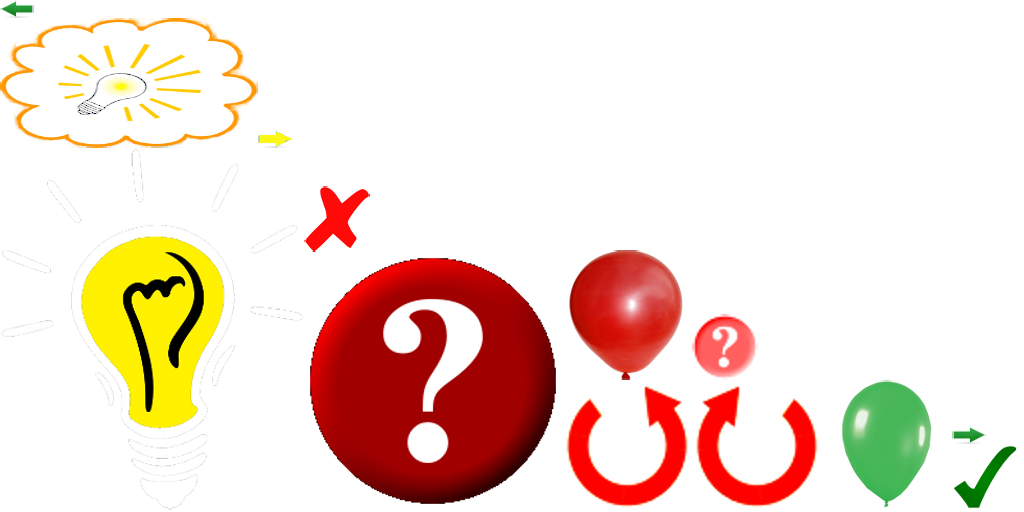
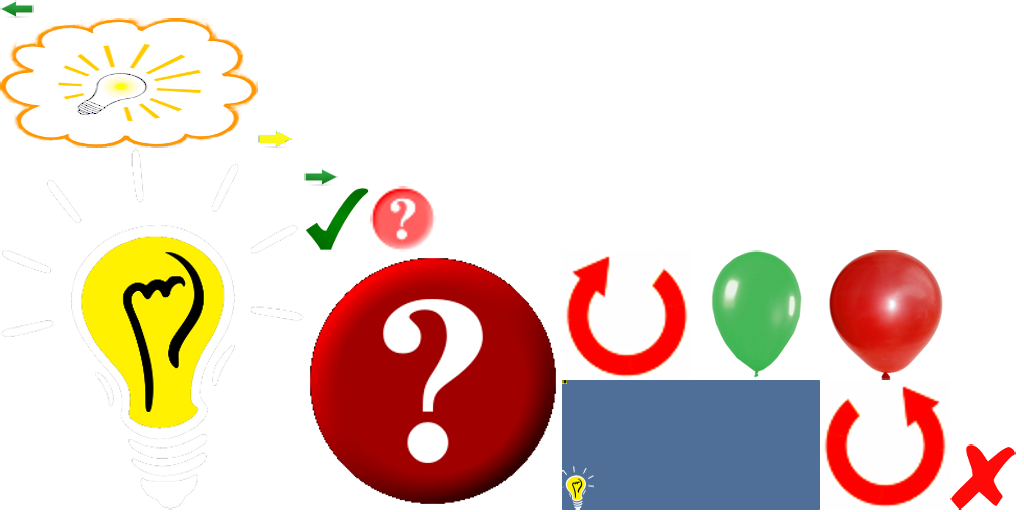
async inventory, atempt to make explanation box better.

Changed region(s): [[0.5312, 0.4688, 1.0, 1.0], [0.2812, 0.3125, 0.4375, 0.5]]

diff --git a/ScienceEngine/src/com/mazalearn/scienceengine/app/dialogs/PurchaseDialog.java b/ScienceEngine/src/com/mazalearn/scienceengine/app/dialogs/PurchaseDialog.java
@@ -18,6 +18,7 @@ import com.mazalearn.scienceengine.ScreenComponent;
 import com.mazalearn.scienceengine.Topic;
 import com.mazalearn.scienceengine.app.screens.LoadingScienceTrain;
 import com.mazalearn.scienceengine.app.screens.TopicHomeScreen;
+import com.mazalearn.scienceengine.app.services.InstallProfile;
 import com.mazalearn.scienceengine.app.services.SoundManager.ScienceEngineSound;
 import com.mazalearn.scienceengine.app.utils.ScreenUtils;
 import com.mazalearn.scienceengine.billing.IBilling;
@@ -29,21 +30,59 @@ import com.mazalearn.scienceengine.billing.SkuDetails;
  */
 public class PurchaseDialog extends Dialog {
   
-  public PurchaseDialog(final Topic topic, Topic level, final IBilling billing, 
+  private Skin skin;
+  private List<Topic> topicList;
+  private ButtonGroup purchasableItems;
+  private ScienceEngine scienceEngine;
+  private Topic topic;
+  private IBilling billing;
+
+  public PurchaseDialog(final Topic topic, Topic level,
       final Stage stage, final Skin skin, final ScienceEngine scienceEngine) {
-    super("", skin);
+    super("", skin, "dialog");
+    
+    this.skin = skin;
+    this.scienceEngine = scienceEngine;
+    this.topic = topic;
 
     // retrieve the default table actor
     Table table = getContentTable();
     table.defaults().spaceBottom(ScreenComponent.getScaledY(30));
     table.columnDefaults(0).padRight(ScreenComponent.getScaledX(20));
+    table.add("Loading...Please wait...");
 
-    // Do an inventory queue here to get prices and description
-    List<Topic> topicList = Arrays.asList(new Topic[] { topic, level});
-    Inventory inventory = ScienceEngine.getPlatformAdapter().queryInventory(topicList);
-    final ButtonGroup buttonGroup = new ButtonGroup();
-    buttonGroup.setMinCheckCount(0);
-    buttonGroup.setMaxCheckCount(1);
+    purchasableItems = new ButtonGroup();
+    purchasableItems.setMinCheckCount(0);
+    purchasableItems.setMaxCheckCount(1);
+
+    // Do an inventory query to get prices and description
+    topicList = Arrays.asList(new Topic[] { topic, level});
+    final InstallProfile installProfile = ScienceEngine.getPreferencesManager().getInstallProfile();
+    billing = new IBilling() {
+      @Override
+      public void purchaseCallback(Topic purchasedTopic) {
+        if (purchasedTopic == null) return;
+        // Allow access after marking in install profile
+        installProfile.addAsAvailableTopic(purchasedTopic);
+        for (Topic child: purchasedTopic.getChildren()) {
+          installProfile.addAsAvailableTopic(child);
+        }
+        installProfile.save();
+        LoadingScienceTrain.setWaitForBackend(false);                  
+      }
+
+      @Override
+      public void inventoryCallback(Inventory inventory) {
+        showItemsForPurchase(inventory);
+      }
+    };
+    ScienceEngine.getPlatformAdapter().queryInventory(topicList, billing);
+    
+  }
+
+  private void showItemsForPurchase(Inventory inventory) {
+    Table table = getContentTable();
+    table.clear();
     for (Topic item: topicList) {
       SkuDetails skuDetails = inventory.getSkuDetails(item.toProductId());
       final TextButton topicCheckbox = ScreenUtils.createCheckBox(skuDetails.getDescription(), 0f, 0f, 300f, 30f, 
@@ -57,10 +96,10 @@ public class PurchaseDialog extends Dialog {
       table.add(topicCheckbox).left().height(ScreenComponent.getScaledY(60)).pad(ScreenComponent.getScaledX(10));
       table.add(skuDetails.getPrice()).pad(ScreenComponent.getScaledX(10));
       topicCheckbox.setName(item.name());
-      buttonGroup.add(topicCheckbox);
+      purchasableItems.add(topicCheckbox);
       table.row();
     }
-    
+    // Add a purchase button
     TextButton purchaseButton = new TextButton("Purchase Selected Topics", skin, "body");
     getButtonTable().add(purchaseButton)
         .width(ScreenComponent.getScaledX(300))
@@ -69,7 +108,7 @@ public class PurchaseDialog extends Dialog {
       @Override
       public void clicked(InputEvent event, float x, float y) {
         ScienceEngine.getSoundManager().play(ScienceEngineSound.CLICK);
-        Button topicButton = buttonGroup.getChecked();
+        Button topicButton = purchasableItems.getChecked();
         if (topicButton != null) {
           // android.test.purchased - item already owned not handled
           // android.test.canceled - BUG: either purchasedata or datasignature is null
@@ -80,8 +119,9 @@ public class PurchaseDialog extends Dialog {
           scienceEngine.setScreen(new LoadingScienceTrain(scienceEngine, topicHomeScreen));                  
           ScienceEngine.getPlatformAdapter().launchPurchaseFlow(purchaseTopic, billing);
         }
-      }
+      } 
     });
 
+    this.show(getStage());
   }
 }

diff --git a/ScienceEngine/src/com/mazalearn/scienceengine/AbstractPlatformAdapter.java b/ScienceEngine/src/com/mazalearn/scienceengine/AbstractPlatformAdapter.java
@@ -96,22 +96,33 @@ public abstract class AbstractPlatformAdapter implements IPlatformAdapter {
   }
 
   @Override
-  public Inventory queryInventory(List<Topic> topicList) {
-    if ((ScienceEngine.DEV_MODE & DevMode.BILLING_DUMMY) != 0) {
-      Inventory inventory = new Inventory();
-      for (Topic topic: topicList) {
-        StringBuffer json = new StringBuffer();
-        json.append("{");
-        json.append("productId:\"" + topic.toProductId() + "\"");
-        json.append(",title:\"" + topic.name() + "\"");
-        json.append(",description:\"" + topic.name() + "\"");
-        json.append(",price:" + (topic.getChildren().length > 0 ? "\"$4.99\"" : "\"0.99\""));
-        json.append("}");
-        SkuDetails skuDetails = SkuDetails.toSkuDetails("inapp", json.toString());
-        inventory.addSkuDetails(skuDetails);
-      }
-      return inventory;
+  public void queryInventory(List<Topic> topicList, final IBilling billing) {
+    if ((ScienceEngine.DEV_MODE & DevMode.BILLING_DUMMY) == 0) {
+      throw new UnsupportedOperationException("Query Inventory not implemented");
     }
-    throw new UnsupportedOperationException("Query Inventory not implemented");
+    final Inventory inventory = new Inventory();
+    for (Topic topic: topicList) {
+      StringBuffer json = new StringBuffer();
+      json.append("{");
+      json.append("productId:\"" + topic.toProductId() + "\"");
+      json.append(",title:\"" + topic.name() + "\"");
+      json.append(",description:\"" + topic.name() + "\"");
+      json.append(",price:" + (topic.getChildren().length > 0 ? "\"$4.99\"" : "\"0.99\""));
+      json.append("}");
+      SkuDetails skuDetails = SkuDetails.toSkuDetails("inapp", json.toString());
+      inventory.addSkuDetails(skuDetails);
+    }
+    // Simulate an asynchronous inventory query
+    new Thread(new Runnable() {
+      @Override
+      public void run() {
+        try {
+          Thread.sleep(1000);
+        } catch (InterruptedException e) {
+          e.printStackTrace();
+        }
+        billing.inventoryCallback(inventory);
+      }
+    }).start();
   }
 }

diff --git a/ScienceEngine/src/com/mazalearn/scienceengine/app/screens/TopicHomeScreen.java b/ScienceEngine/src/com/mazalearn/scienceengine/app/screens/TopicHomeScreen.java
@@ -37,7 +37,6 @@ import com.mazalearn.scienceengine.app.utils.Format;
 import com.mazalearn.scienceengine.app.utils.IPlatformAdapter;
 import com.mazalearn.scienceengine.app.utils.LevelUtil;
 import com.mazalearn.scienceengine.app.utils.ScreenUtils;
-import com.mazalearn.scienceengine.billing.IBilling;
 import com.mazalearn.scienceengine.tutor.Guru;
 import com.mazalearn.scienceengine.tutor.ITutor;
 
@@ -209,19 +208,7 @@ public class TopicHomeScreen extends AbstractScreen {
           @Override
           public void clicked(InputEvent event, float x, float y) {
             if (!installProfile.isAvailableTopic(level)) {
-              new PurchaseDialog(topic, level, new IBilling() {
-                @Override
-                public void purchaseCallback(Topic purchasedTopic) {
-                  if (purchasedTopic == null) return;
-                  // Allow access after marking in install profile
-                  installProfile.addAsAvailableTopic(purchasedTopic);
-                  for (Topic child: purchasedTopic.getChildren()) {
-                    installProfile.addAsAvailableTopic(child);
-                  }
-                  installProfile.save();
-                  LoadingScienceTrain.setWaitForBackend(false);                  
-                }
-              }, getStage(), getSkin(), scienceEngine).show(getStage());
+              new PurchaseDialog(topic, level, getStage(), getSkin(), scienceEngine).show(getStage());
               return;
             }
             new MessageDialog(getSkin(), "To unlock this level, you need the " + topic.name() + " Certificate").show(stage);

diff --git a/ScienceEngine-android/src/com/mazalearn/scienceengine/PlatformAdapterImpl.java b/ScienceEngine-android/src/com/mazalearn/scienceengine/PlatformAdapterImpl.java
@@ -93,18 +93,25 @@ public class PlatformAdapterImpl extends NonWebPlatformAdapter {
   }
   
   @Override
-  public Inventory queryInventory(List<Topic> topicList) {
+  public void queryInventory(List<Topic> topicList, final IBilling billing) {
     Gdx.app.log(ScienceEngine.LOG, "Querying inventory.");
     List<String> productList = new ArrayList<String>();
     for (Topic topic: topicList) {
       productList.add(topic.toProductId());
     }
-    try {
-      return iabHelper.queryInventory(true, productList, Collections.<String> emptyList());
-    } catch (IabException e) {
-      e.printStackTrace();
-      return null;
-    }    
+    
+    iabHelper.queryInventoryAsync(true, productList,
+        new IabHelper.QueryInventoryFinishedListener() {
+          @Override
+          public void onQueryInventoryFinished(IabResult result, Inventory inventory) {
+            if (result.isFailure()) {
+              Gdx.app.error(ScienceEngine.LOG, "Failed to query inventory: " + result);
+              billing.inventoryCallback(null);
+            }
+            Gdx.app.log(ScienceEngine.LOG, "Query inventory was successful.");
+            billing.inventoryCallback(inventory);
+          }
+        });    
   }
   
   // Listener that's called when we finish querying the items and subscriptions we own

diff --git a/ScienceEngine/src/com/mazalearn/scienceengine/tutor/ImageMessageBox.java b/ScienceEngine/src/com/mazalearn/scienceengine/tutor/ImageMessageBox.java
@@ -1,6 +1,5 @@
 package com.mazalearn.scienceengine.tutor;
 
-import com.badlogic.gdx.Gdx;
 import com.badlogic.gdx.graphics.Color;
 import com.badlogic.gdx.graphics.g2d.SpriteBatch;
 import com.badlogic.gdx.scenes.scene2d.Actor;
@@ -76,7 +75,7 @@ public class ImageMessageBox extends TextButton {
         if (newX + w > ScreenComponent.VIEWPORT_WIDTH) newX = ScreenComponent.VIEWPORT_WIDTH - w;
         if (newY < 0) newY = 0;
         if (newY + h > ScreenComponent.VIEWPORT_HEIGHT) newY = ScreenComponent.VIEWPORT_HEIGHT - h;
-        Gdx.app.error(ScienceEngine.LOG, "x y " + getDeltaX() + " " + getDeltaY() + " " + newX + " " + newY);
+        // Gdx.app.error(ScienceEngine.LOG, "ImageMessageBox x y " + getDeltaX() + " " + getDeltaY() + " " + newX + " " + newY);
         setPosition(newX, newY);
       }
     });

diff --git a/ScienceEngine/src/com/mazalearn/scienceengine/app/screens/LoadingScienceTrain.java b/ScienceEngine/src/com/mazalearn/scienceengine/app/screens/LoadingScienceTrain.java
@@ -81,7 +81,7 @@ public class LoadingScienceTrain extends AbstractScreen {
     height = ScreenComponent.VIEWPORT_HEIGHT;
     stage.setViewport(width, height, false);
     startX = 50;
-    endX = WIDTH - 10;
+    endX = ScreenComponent.VIEWPORT_WIDTH - 10;
     startY = ScreenComponent.VIEWPORT_HEIGHT * MathUtils.random(0.2f, 0.8f);
     endY = ScreenComponent.VIEWPORT_HEIGHT * MathUtils.random(0.2f, 0.8f);
     train.setPosition(startX, startY);
@@ -90,7 +90,6 @@ public class LoadingScienceTrain extends AbstractScreen {
     railTracks.setPosition(startX - 100 * MathUtils.cosDeg(angle), 
         startY - 25 - 100 * MathUtils.sinDeg(angle));
     railTracks.setRotation(angle);
-
   }
 
   @Override

diff --git a/ScienceEngine/src/com/mazalearn/scienceengine/app/utils/IPlatformAdapter.java b/ScienceEngine/src/com/mazalearn/scienceengine/app/utils/IPlatformAdapter.java
@@ -12,7 +12,6 @@ import com.mazalearn.scienceengine.Topic;
 import com.mazalearn.scienceengine.app.screens.AbstractScreen;
 import com.mazalearn.scienceengine.app.services.IMessage;
 import com.mazalearn.scienceengine.billing.IBilling;
-import com.mazalearn.scienceengine.billing.Inventory;
 import com.mazalearn.scienceengine.core.controller.IScience2DController;
 
 public interface IPlatformAdapter {
@@ -74,6 +73,6 @@ public interface IPlatformAdapter {
 
   void launchPurchaseFlow(Topic sku, IBilling billing);
 
-  Inventory queryInventory(List<Topic> itemList);
+  void queryInventory(List<Topic> itemList, IBilling billing);
 }
 

diff --git a/ScienceEngine/src/com/mazalearn/scienceengine/tutor/TutorHelper.java b/ScienceEngine/src/com/mazalearn/scienceengine/tutor/TutorHelper.java
@@ -81,11 +81,11 @@ public class TutorHelper extends Group {
     this.addActor(successImage);
     this.addActor(failureImage);
     this.addActor(correctImage);
-    this.addActor(wrongImage);   
+    this.addActor(wrongImage);
     
     hinter = new Hinter(skin);
     this.addActor(hinter);
-    this.addActor(explanation = new ExplanationBox(this, skin, "explanation"));
+    this.addActor(explanation = new ExplanationBox(this, skin, "explanation2"));
     
     timeTracker = (TimeTracker) science2DView.findActor(ScreenComponent.TimeTracker.name());
     if (timeTracker != null) {

diff --git a/ScienceEngine/src/com/mazalearn/scienceengine/billing/IBilling.java b/ScienceEngine/src/com/mazalearn/scienceengine/billing/IBilling.java
@@ -7,5 +7,7 @@ public interface IBilling {
   int REQUEST_CODE = 0xFABB;
 
   public void purchaseCallback(Topic topic);
+  
+  public void inventoryCallback(Inventory inventory);
 
 }
